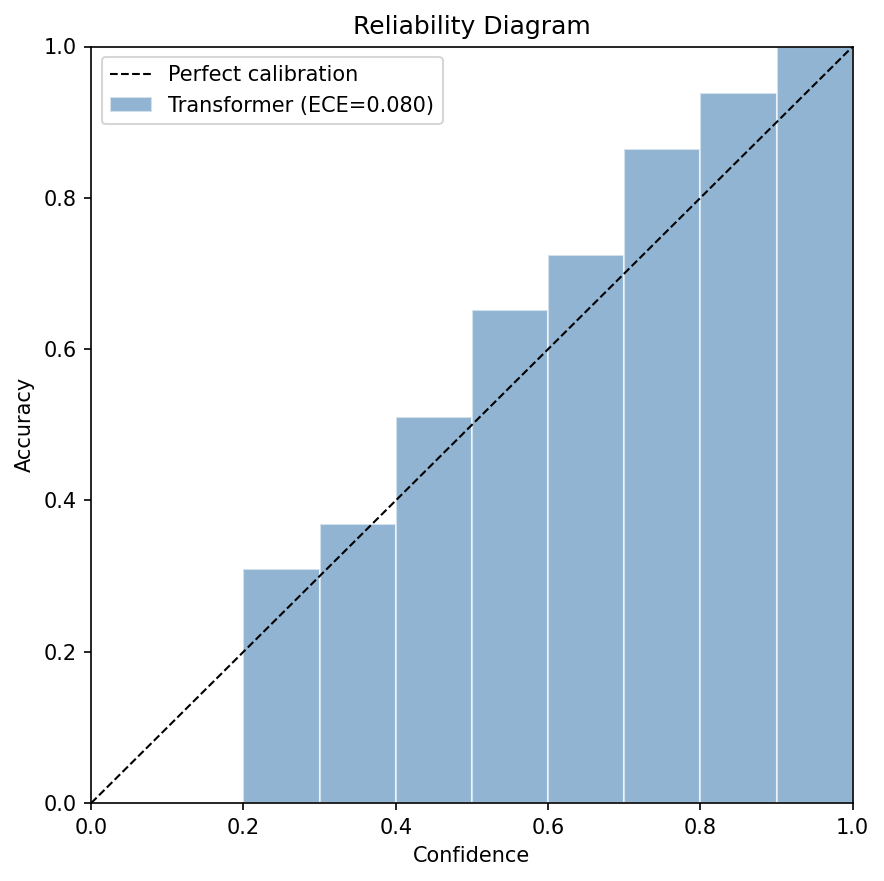
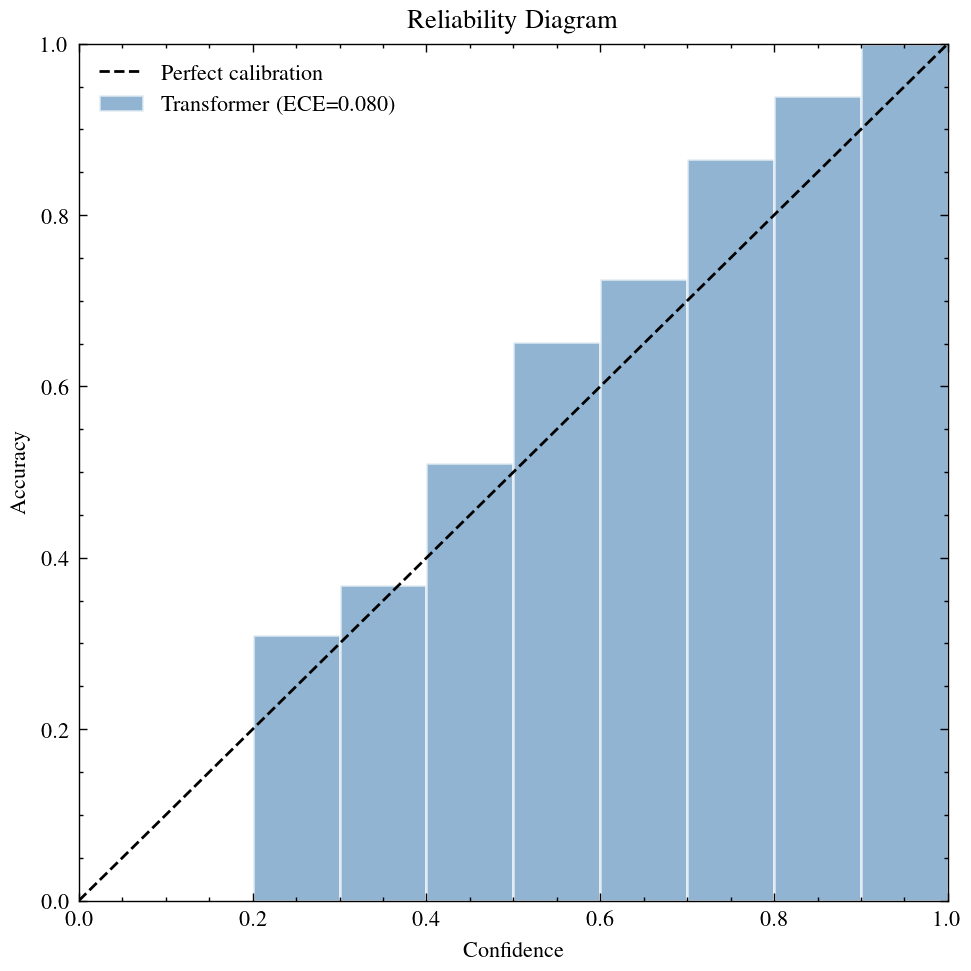
style: regenerate result plots with SciencePlots science+ieee

diff --git a/src/eval/produce_plots.py b/src/eval/produce_plots.py
@@ -20,7 +20,7 @@ import numpy as np
 import torch
 import yaml
 
-plt.style.use(["science", "no-latex"])
+plt.style.use(["science", "ieee"])
 
 sys.path.insert(0, str(Path(__file__).resolve().parents[2]))
 
@@ -217,7 +217,7 @@ def save_confusion_matrix(y_true, y_pred):
                           normalize=True, ax=ax)
     fig.tight_layout()
     out = OUTPUT_DIR / "confusion_matrix.png"
-    fig.savefig(out, dpi=150, bbox_inches="tight")
+    fig.savefig(out, dpi=200, bbox_inches="tight")
     plt.close(fig)
     print(f"Saved: {out}")
 
@@ -226,12 +226,12 @@ def save_calibration_curve(y_true, y_pred, y_conf):
     correct = y_true == y_pred
     ece = expected_calibration_error(y_conf, correct)
     centres, acc, counts = reliability_diagram_data(y_conf, correct)
-    fig, ax = plt.subplots(figsize=(6, 6))
+    fig, ax = plt.subplots(figsize=(5, 5))
     plot_reliability_diagram(centres, acc, counts,
                              label=f"Transformer (ECE={ece:.3f})", ax=ax)
     fig.tight_layout()
     out = OUTPUT_DIR / "calibration_curve.png"
-    fig.savefig(out, dpi=150, bbox_inches="tight")
+    fig.savefig(out, dpi=200, bbox_inches="tight")
     plt.close(fig)
     print(f"Saved: {out}  ECE={ece:.4f}")
     return ece
@@ -241,8 +241,8 @@ def save_attention_heatmap(attn, depths):
     n = attn.shape[0]
     tick_idx = np.linspace(0, n - 1, min(12, n), dtype=int)
 
-    fig, ax = plt.subplots(figsize=(12, 7))
-    im = ax.imshow(attn, aspect="auto", cmap="YlOrRd", interpolation="nearest")
+    fig, ax = plt.subplots(figsize=(10, 6))
+    im = ax.imshow(attn, aspect="auto", cmap="inferno", interpolation="nearest")
     plt.colorbar(im, ax=ax, label="Attention weight")
     ax.set_xticks(tick_idx)
     ax.set_xticklabels([f"{depths[i]:.0f} m" for i in tick_idx], rotation=45, ha="right")
@@ -250,45 +250,48 @@ def save_attention_heatmap(attn, depths):
     ax.set_yticklabels([f"{depths[i]:.0f} m" for i in tick_idx])
     ax.set_xlabel("Key depth")
     ax.set_ylabel("Query depth")
-    ax.set_title("Layer-1 self-attention weights — val well 31/2-21 S")
+    ax.set_title("Layer-1 self-attention weights -- val well 31/2-21 S")
     fig.tight_layout()
     out = OUTPUT_DIR / "attention_weights.png"
-    fig.savefig(out, dpi=150, bbox_inches="tight")
+    fig.savefig(out, dpi=200, bbox_inches="tight")
     plt.close(fig)
     print(f"Saved: {out}")
 
 
 def save_macro_f1_per_fold(tf_scores, xgb_scores):
+    # Pull the first two colours from the ieee cycle
+    prop_cycle = plt.rcParams["axes.prop_cycle"].by_key()["color"]
+    c0, c1 = prop_cycle[0], prop_cycle[1]
+
     n = len(tf_scores)
-    fig, ax = plt.subplots(figsize=(max(7, n * 1.4), 5))
+    fig, ax = plt.subplots(figsize=(max(6, n * 1.2), 4))
     x = np.arange(n)
     w = 0.35
-    b1 = ax.bar(x - w / 2, tf_scores,  w, label="Transformer", color="steelblue")
-    b2 = ax.bar(x + w / 2, xgb_scores, w, label="XGBoost",     color="coral")
+    b1 = ax.bar(x - w / 2, tf_scores,  w, label="Transformer", color=c0)
+    b2 = ax.bar(x + w / 2, xgb_scores, w, label="XGBoost",     color=c1)
 
     for bar in (*b1, *b2):
         v = bar.get_height()
         ax.text(bar.get_x() + bar.get_width() / 2, v + 0.005,
-                f"{v:.3f}", ha="center", va="bottom", fontsize=8)
+                f"{v:.3f}", ha="center", va="bottom", fontsize=6)
 
     tf_mean,  tf_std  = np.mean(tf_scores),  np.std(tf_scores)
     xgb_mean, xgb_std = np.mean(xgb_scores), np.std(xgb_scores)
-    ax.axhline(tf_mean,  ls="--", color="steelblue", alpha=0.7,
-               label=f"TF mean={tf_mean:.3f} ±{tf_std:.3f}")
-    ax.axhline(xgb_mean, ls="--", color="coral",     alpha=0.7,
-               label=f"XGB mean={xgb_mean:.3f} ±{xgb_std:.3f}")
+    ax.axhline(tf_mean,  ls="--", lw=0.9, color=c0,
+               label=f"TF mean $= {tf_mean:.3f} \\pm {tf_std:.3f}$")
+    ax.axhline(xgb_mean, ls="--", lw=0.9, color=c1,
+               label=f"XGB mean $= {xgb_mean:.3f} \\pm {xgb_std:.3f}$")
 
     ax.set_xlabel("Spatial Fold")
     ax.set_ylabel("Macro F1")
-    ax.set_title(f"Macro F1 per Spatial Fold — {CV_EPOCHS}-epoch Transformer vs XGBoost")
+    ax.set_title(f"Macro F1 per Spatial Fold ({CV_EPOCHS}-ep Transformer vs. XGBoost)")
     ax.set_xticks(x)
     ax.set_xticklabels([f"Fold {i + 1}" for i in range(n)])
-    ax.set_ylim(0, min(1.0, max(max(tf_scores), max(xgb_scores)) * 1.15 + 0.05))
-    ax.legend(fontsize=8)
-    ax.grid(axis="y", alpha=0.3)
+    ax.set_ylim(0, min(1.0, max(max(tf_scores), max(xgb_scores)) * 1.18 + 0.05))
+    ax.legend(fontsize=6)
     fig.tight_layout()
     out = OUTPUT_DIR / "macro_f1_per_fold.png"
-    fig.savefig(out, dpi=150, bbox_inches="tight")
+    fig.savefig(out, dpi=200, bbox_inches="tight")
     plt.close(fig)
     print(f"Saved: {out}")
     return tf_mean, tf_std, xgb_mean, xgb_std
